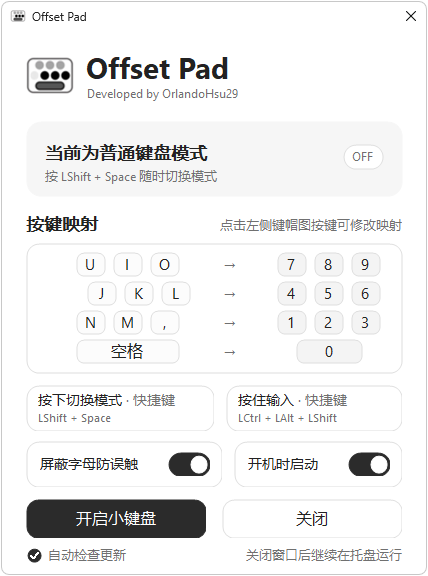
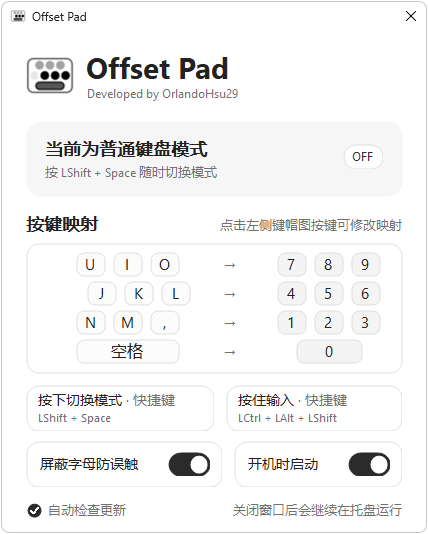
用状态徽标切换键盘模式

diff --git a/src/app/app_ui.c b/src/app/app_ui.c
@@ -11,9 +11,7 @@
 #include "keymap.h"
 
 #define TRAY_ID 1
-#define ID_TOGGLE 101
 #define ID_AUTOSTART 102
-#define ID_CLOSE 103
 #define ID_HOTKEY 104
 #define ID_BLOCK_LETTERS 105
 #define ID_HOLD_HOTKEY 106
@@ -21,6 +19,7 @@
 #define ID_BLOCK_LETTERS_CARD 108
 #define ID_AUTO_UPDATES 109
 #define ID_UPDATE_LINK 110
+#define ID_MODE_BADGE 111
 #define MENU_OPEN 201
 #define MENU_TOGGLE 202
 #define MENU_AUTOSTART 203
@@ -34,13 +33,13 @@ static const wchar_t settings_class[] = L"OffsetPadSettingsWindow";
 static HINSTANCE instance;
 static HWND message_window;
 static HWND settings_window;
-static HWND toggle_button;
 static HWND autostart_check;
 static HWND block_letters_check;
 static HWND hotkey_button;
 static HWND hold_hotkey_button;
 static HWND auto_updates_check;
 static HWND update_link_button;
+static HWND mode_badge_button;
 static int update_available;
 static int update_notice_active;
 static HFONT title_font;
@@ -70,7 +69,7 @@ typedef struct hover_button {
     int tracking_mouse_leave;
 } hover_button;
 
-static hover_button hover_buttons[8];
+static hover_button hover_buttons[7];
 
 static HICON current_icon(void)
 {
@@ -97,6 +96,7 @@ static HICON current_logo(void)
 #define COLOR_HOVER RGB(243, 243, 243)
 #define COLOR_ACCENT_HOVER RGB(58, 58, 58)
 #define COLOR_BORDER RGB(222, 222, 222)
+#define COLOR_MODE_BADGE_HOVER_BORDER RGB(190, 190, 190)
 #define COLOR_KEYCAP RGB(252, 252, 252)
 #define COLOR_KEYCAP_OUTPUT RGB(244, 244, 244)
 #define COLOR_KEYCAP_HOVER RGB(240, 240, 240)
@@ -278,7 +278,6 @@ static void paint_settings(HDC dc, const RECT *client)
     wchar_t shortcut[96];
     wchar_t hint[192];
     HBRUSH background = CreateSolidBrush(COLOR_WHITE);
-    COLORREF accent = keymap_is_enabled() ? COLOR_ACCENT : COLOR_MUTED;
     COLORREF hint_color = hotkey_capture_status[0] != L'\0' ? RGB(180, 82, 82) : COLOR_MUTED;
     FillRect(dc, client, background);
     DeleteObject(background);
@@ -320,12 +319,7 @@ static void paint_settings(HDC dc, const RECT *client)
     rect = scaled_rect(43, 131, 386, 150);
     draw_label(dc, hint, rect, small_font,
                hint_color, DT_SINGLELINE | DT_VCENTER | DT_END_ELLIPSIS);
-    rect = scaled_rect(341, 112, 381, 137);
-    rounded_box(dc, rect, keymap_is_enabled() ? COLOR_ACCENT : COLOR_WHITE,
-                keymap_is_enabled() ? COLOR_ACCENT : COLOR_BORDER, 12);
-    draw_label(dc, keymap_is_enabled() ? L"ON" : L"OFF", rect, small_font,
-               keymap_is_enabled() ? COLOR_WHITE : accent,
-               DT_SINGLELINE | DT_VCENTER | DT_CENTER);
+
 
     rect = scaled_rect(24, 179, 250, 205);
     draw_label(dc, L"按键映射", rect, heading_font, COLOR_INK,
@@ -380,10 +374,10 @@ static void paint_settings(HDC dc, const RECT *client)
                        DT_SINGLELINE | DT_CENTER | DT_VCENTER);
         }
     }
-    rect = scaled_rect(185, 514, 400, 533);
-    draw_label(dc, L"关闭窗口后继续在托盘运行", rect, small_font, COLOR_MUTED,
+    rect = scaled_rect(185, 469, 400, 488);
+    draw_label(dc, L"关闭窗口后会继续在托盘运行", rect, small_font, COLOR_MUTED,
                DT_SINGLELINE | DT_RIGHT | DT_VCENTER);
-    draw_label(dc, L"自动检查更新", scaled_rect(46, 514, 155, 533), small_font, COLOR_MUTED,
+    draw_label(dc, L"自动检查更新", scaled_rect(46, 469, 155, 488), small_font, COLOR_MUTED,
                DT_SINGLELINE | DT_LEFT | DT_VCENTER);
 
 }
@@ -417,7 +411,6 @@ static void draw_button_content(const DRAWITEMSTRUCT *item)
     COLORREF fill = COLOR_WHITE;
     COLORREF border = COLOR_BORDER;
     COLORREF ink = COLOR_INK;
-    const wchar_t *label;
 
     if (item->CtlID == ID_HOTKEY || item->CtlID == ID_HOLD_HOTKEY) {
         wchar_t shortcut[96];
@@ -570,18 +563,23 @@ static void draw_button_content(const DRAWITEMSTRUCT *item)
         rounded_box(dc, knob, COLOR_WHITE, COLOR_WHITE, 17);
         return;
     }
-    if (item->CtlID == ID_TOGGLE) {
-        fill = pressed ? COLOR_ACCENT_DOWN : (hovered ? COLOR_ACCENT_HOVER : COLOR_ACCENT);
-        border = fill;
-        ink = COLOR_WHITE;
-        label = keymap_is_latched() ? L"关闭小键盘" : L"开启小键盘";
-    } else {
-        fill = pressed ? COLOR_KEYCAP_HOVER : (hovered ? COLOR_TINT : COLOR_WHITE);
-        label = L"关闭";
+    if (item->CtlID == ID_MODE_BADGE) {
+        int enabled = keymap_is_enabled();
+        const wchar_t *label = enabled ? L"ON" : L"OFF";
+        if (enabled) {
+            fill = pressed ? COLOR_ACCENT_DOWN :
+                   (hovered ? COLOR_ACCENT_HOVER : COLOR_ACCENT);
+            border = fill;
+            ink = COLOR_WHITE;
+        } else {
+            fill = pressed ? COLOR_TINT : (hovered ? COLOR_HOVER : COLOR_WHITE);
+            border = hovered || pressed ? COLOR_MODE_BADGE_HOVER_BORDER : COLOR_BORDER;
+            ink = COLOR_ACCENT;
+        }
+        rounded_box(dc, rect, fill, border, 12);
+        draw_label(dc, label, rect, small_font, ink,
+                   DT_SINGLELINE | DT_CENTER | DT_VCENTER);
     }
-    rounded_box(dc, rect, fill, border, 11);
-    draw_label(dc, label, rect, body_font, ink,
-               DT_SINGLELINE | DT_CENTER | DT_VCENTER);
 }
 
 static void draw_button(const DRAWITEMSTRUCT *item)
@@ -593,6 +591,7 @@ static void draw_button(const DRAWITEMSTRUCT *item)
     HDC buffer_dc;
     HBITMAP buffer_bitmap;
     HGDIOBJ previous_bitmap;
+    HBRUSH background_brush;
     RECT buffer_rect;
 
     if (width <= 0 || height <= 0) {
@@ -617,8 +616,13 @@ static void draw_button(const DRAWITEMSTRUCT *item)
     buffer_rect.top = 0;
     buffer_rect.right = width;
     buffer_rect.bottom = height;
+    background_brush = CreateSolidBrush(item->CtlID == ID_MODE_BADGE ?
+                                       COLOR_TINT : COLOR_WHITE);
     FillRect(buffer_dc, &buffer_rect,
+             background_brush != NULL ? background_brush :
              (HBRUSH)GetStockObject(WHITE_BRUSH));
+    if (background_brush != NULL)
+        DeleteObject(background_brush);
     buffered_item.hDC = buffer_dc;
     buffered_item.rcItem = buffer_rect;
     draw_button_content(&buffered_item);
@@ -733,8 +737,10 @@ void ui_refresh(void)
         SendMessageW(settings_window, WM_SETICON, ICON_SMALL, (LPARAM)current_icon());
         SendMessageW(settings_window, WM_SETICON, ICON_BIG, (LPARAM)current_logo());
     }
-    if (toggle_button != NULL)
-        InvalidateRect(toggle_button, NULL, FALSE);
+    if (mode_badge_button != NULL) {
+        SetWindowTextW(mode_badge_button, keymap_is_enabled() ? L"ON" : L"OFF");
+        InvalidateRect(mode_badge_button, NULL, FALSE);
+    }
     if (autostart_check != NULL)
         InvalidateRect(autostart_check, NULL, FALSE);
     if (block_letters_check != NULL)
@@ -779,14 +785,7 @@ static LRESULT CALLBACK settings_proc(HWND window, UINT message, WPARAM wparam, 
                                            WS_CHILD | WS_VISIBLE | SS_OWNERDRAW,
                                            scale(232), scale(409), scale(168), scale(46),
                                            window, (HMENU)(INT_PTR)ID_AUTOSTART_CARD, instance, NULL);
-        toggle_button = CreateWindowExW(0, L"BUTTON", L"开启小键盘",
-                                         WS_CHILD | WS_VISIBLE | WS_TABSTOP | BS_OWNERDRAW,
-                                         scale(24), scale(467), scale(180), scale(39),
-                                         window, (HMENU)(INT_PTR)ID_TOGGLE, instance, NULL);
-        CreateWindowExW(0, L"BUTTON", L"关闭",
-                        WS_CHILD | WS_VISIBLE | WS_TABSTOP | BS_OWNERDRAW,
-                        scale(220), scale(467), scale(180), scale(39),
-                        window, (HMENU)(INT_PTR)ID_CLOSE, instance, NULL);
+
         block_letters_check = CreateWindowExW(0, L"BUTTON", L"",
                         WS_CHILD | WS_VISIBLE | WS_TABSTOP | BS_OWNERDRAW,
                         scale(166), scale(420), scale(42), scale(24),
@@ -797,21 +796,24 @@ static LRESULT CALLBACK settings_proc(HWND window, UINT message, WPARAM wparam, 
                         window, (HMENU)(INT_PTR)ID_AUTOSTART, instance, NULL);
         auto_updates_check = CreateWindowExW(0, L"BUTTON", L"",
                         WS_CHILD | WS_VISIBLE | WS_TABSTOP | BS_OWNERDRAW,
-                        scale(24), scale(515), scale(16), scale(16),
+                        scale(24), scale(470), scale(16), scale(16),
                         window, (HMENU)(INT_PTR)ID_AUTO_UPDATES, instance, NULL);
         update_link_button = CreateWindowExW(0, L"BUTTON", L"有可用更新，点击查看",
                         WS_CHILD | WS_TABSTOP | BS_OWNERDRAW |
                         (update_available ? WS_VISIBLE : 0),
                         header_update_button_left(), scale(23), scale(24), scale(24),
                         window, (HMENU)(INT_PTR)ID_UPDATE_LINK, instance, NULL);
+        mode_badge_button = CreateWindowExW(0, L"BUTTON", keymap_is_enabled() ? L"ON" : L"OFF",
+                        WS_CHILD | WS_VISIBLE | WS_TABSTOP | BS_OWNERDRAW,
+                        scale(341), scale(112), scale(40), scale(25),
+                        window, (HMENU)(INT_PTR)ID_MODE_BADGE, instance, NULL);
         attach_hover_tracking(GetDlgItem(window, ID_HOTKEY), ID_HOTKEY);
         attach_hover_tracking(GetDlgItem(window, ID_HOLD_HOTKEY), ID_HOLD_HOTKEY);
         attach_hover_tracking(GetDlgItem(window, ID_BLOCK_LETTERS), ID_BLOCK_LETTERS);
         attach_hover_tracking(GetDlgItem(window, ID_AUTOSTART), ID_AUTOSTART);
-        attach_hover_tracking(GetDlgItem(window, ID_TOGGLE), ID_TOGGLE);
-        attach_hover_tracking(GetDlgItem(window, ID_CLOSE), ID_CLOSE);
         attach_hover_tracking(GetDlgItem(window, ID_AUTO_UPDATES), ID_AUTO_UPDATES);
         attach_hover_tracking(GetDlgItem(window, ID_UPDATE_LINK), ID_UPDATE_LINK);
+        attach_hover_tracking(GetDlgItem(window, ID_MODE_BADGE), ID_MODE_BADGE);
         return 0;
     case WM_ERASEBKGND:
         return 1;
@@ -826,7 +828,7 @@ static LRESULT CALLBACK settings_proc(HWND window, UINT message, WPARAM wparam, 
                 id == ID_HOTKEY || id == ID_HOLD_HOTKEY ||
                 id == ID_AUTOSTART || id == ID_BLOCK_LETTERS ||
                 id == ID_AUTO_UPDATES || id == ID_UPDATE_LINK ||
-                id == ID_TOGGLE || id == ID_CLOSE)
+                id == ID_MODE_BADGE)
                 SetCursor(LoadCursorW(NULL, IDC_HAND));
             else
                 SetCursor(LoadCursorW(NULL, IDC_ARROW));
@@ -923,9 +925,9 @@ static LRESULT CALLBACK settings_proc(HWND window, UINT message, WPARAM wparam, 
             }
             ui_refresh();
             return 0;
-        case ID_TOGGLE:
+        case ID_MODE_BADGE:
             keymap_cancel_capture();
-            actions.set_enabled(!keymap_is_latched());
+            actions.set_enabled(!keymap_is_enabled());
             return 0;
         case ID_BLOCK_LETTERS:
             {
@@ -955,9 +957,6 @@ static LRESULT CALLBACK settings_proc(HWND window, UINT message, WPARAM wparam, 
                 show_error(L"无法保存自动检查更新设置。");
             ui_refresh();
             return 0;
-        case ID_CLOSE:
-            PostMessageW(window, WM_CLOSE, 0, 0);
-            return 0;
         }
         break;
     case WM_CLOSE:
@@ -975,13 +974,13 @@ static LRESULT CALLBACK settings_proc(HWND window, UINT message, WPARAM wparam, 
         return 0;
     case WM_DESTROY:
         settings_window = NULL;
-        toggle_button = NULL;
         autostart_check = NULL;
         block_letters_check = NULL;
         hotkey_button = NULL;
         hold_hotkey_button = NULL;
         auto_updates_check = NULL;
         update_link_button = NULL;
+        mode_badge_button = NULL;
         hovered_source_key = -1;
         mouse_leave_tracking = 0;
         hovered_button_id = 0;
@@ -1089,7 +1088,7 @@ void ui_show(void)
             compact_font = CreateFontW(-scale(11), 0, 0, 0, FW_NORMAL, FALSE, FALSE, FALSE,
                                     DEFAULT_CHARSET, OUT_DEFAULT_PRECIS, CLIP_DEFAULT_PRECIS,
                                     CLEARTYPE_QUALITY, DEFAULT_PITCH | FF_DONTCARE, L"Segoe UI");
-        rect = scaled_rect(0, 0, 424, 542);
+        rect = scaled_rect(0, 0, 424, 500);
         AdjustWindowRect(&rect, style, FALSE);
         width = rect.right - rect.left;
         height = rect.bottom - rect.top;
